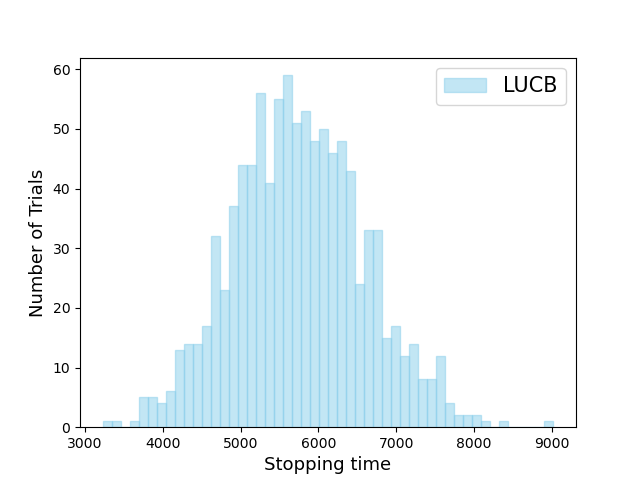
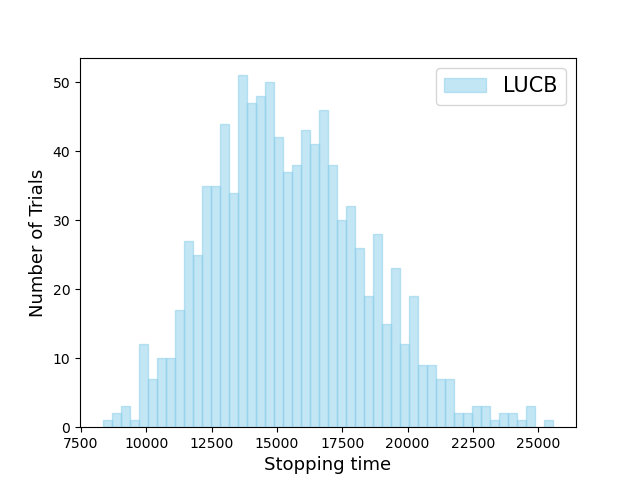
update

diff --git a/plot_data.py b/plot_data.py
@@ -25,7 +25,7 @@ def hill_estimator(data, k):
 # print(all_stopping_times)
 # print(len(all_stopping_times))
 
-color_list = ['skyblue','g','r']
+color_list = ['skyblue','g','r', 'y']
 
 # filename = "results/all_stopping_time_fcsh-1.1_9_v21.txt"
 # all_stopping_times = np.loadtxt(filename)
@@ -48,6 +48,48 @@ color_list = ['skyblue','g','r']
 # plt.show()
 
 
+filename = "results/all_stopping_times_fcsh-1.01_1000_v41.txt"
+all_stopping_times = np.loadtxt(filename)
+print(len(all_stopping_times))
+print(f"max = {np.max(all_stopping_times):0.4f}")
+print(f"min = {np.min(all_stopping_times):0.4f}")
+kurt = kurtosis(all_stopping_times, fisher=False)
+print(f"kurt = {kurt}")
+# hill = hill_estimator(all_stopping_times, 5)
+# print(f"hill = {hill}")
+
+plt.hist(
+    all_stopping_times, bins=50, color=color_list[0],
+    alpha=0.5, edgecolor=color_list[0], label="FCDSH-1.01", lw=3)
+
+filename = "results/all_stopping_times_fcsh-1.1_1000_v41.txt"
+all_stopping_times = np.loadtxt(filename)
+print(len(all_stopping_times))
+print(f"max = {np.max(all_stopping_times):0.4f}")
+print(f"min = {np.min(all_stopping_times):0.4f}")
+kurt = kurtosis(all_stopping_times, fisher=False)
+print(f"kurt = {kurt}")
+# hill = hill_estimator(all_stopping_times, 5)
+# print(f"hill = {hill}")
+
+plt.hist(
+    all_stopping_times, bins=50, color=color_list[1],
+    alpha=0.5, edgecolor=color_list[1], label="FCDSH-1.1", lw=3)
+
+filename = "results/all_stopping_times_fcsh-2_1000_v41.txt"
+all_stopping_times = np.loadtxt(filename)
+print(len(all_stopping_times))
+print(f"max = {np.max(all_stopping_times):0.4f}")
+print(f"min = {np.min(all_stopping_times):0.4f}")
+kurt = kurtosis(all_stopping_times, fisher=False)
+print(f"kurt = {kurt}")
+# hill = hill_estimator(all_stopping_times, 5)
+# print(f"hill = {hill}")
+
+plt.hist(
+    all_stopping_times, bins=50, color=color_list[2],
+    alpha=0.5, edgecolor=color_list[2], label="FCDSH-2", lw=3)
+
 filename = "results/all_stopping_times_lucb_1000_v41.txt"
 all_stopping_times = np.loadtxt(filename)
 print(len(all_stopping_times))
@@ -55,18 +97,18 @@ print(f"max = {np.max(all_stopping_times):0.4f}")
 print(f"min = {np.min(all_stopping_times):0.4f}")
 kurt = kurtosis(all_stopping_times, fisher=False)
 print(f"kurt = {kurt}")
-hill = hill_estimator(all_stopping_times, 5)
-print(f"hill = {hill}")
+# hill = hill_estimator(all_stopping_times, 5)
+# print(f"hill = {hill}")
 
 plt.hist(
-    all_stopping_times, bins=50, color=color_list[0],
-    alpha=0.5, edgecolor=color_list[0], label="LUCB", lw=3)
+    all_stopping_times, bins=50, color=color_list[3],
+    alpha=0.5, edgecolor=color_list[3], label="LUCB", lw=3)
 
 plt.xlabel('Stopping time', fontsize=13)
 plt.ylabel('Number of Trials', fontsize=13)
 
 plt.legend(fontsize=15)
-plt.savefig(f"fc_dsh.png", format='png')
+plt.savefig(f"fc_dsh_compare.png", format='png')
 
 plt.show()
 

diff --git a/test_lucb_v21.py b/test_lucb_v21.py
@@ -71,9 +71,8 @@ def algo_factory_fc(algo_name, K, seed, sigma_sq, beta, delta):
 #algo_names = ['ucb', 'sh', 'sh-reuse']
 #algo_names = ['tstci', 'fcsh-2', 'fcsh-1.5', 'fcsh-1.01']
 algo_names = ['tstci', 'fcsh-1.01', 'fcsh-1.01-d1.01', 'fcsh-1.01-d3', 'fcsh-1.01-d4', 'fcsh-1.01-d5']
-algo_names = ['fcsh-1.01', 'fcsh-1.1', 'fcsh-2']
-algo_names = ['fcsh-2']
-# algo_names = ['lucb']
+# algo_names = ['fcsh-1.01', 'fcsh-1.1', 'fcsh-2']
+algo_names = ['lucb']
 #algo_names = ['tstci', 'fcsh-2', 'fcsh-1.5', 'fcsh-1.01', 'fcsh-1.01-d3', 'fcsh-1.01-d4']
 opt.algo_names = algo_names
 
@@ -94,8 +93,8 @@ for (i_algo, algo_name) in enumerate(algo_names):
     for i_try in range(opt.n_try):
         env = Gaussian(opt.mu, opt.sigma_sq, seed=seed_ary[i_try])
         algo = algo_factory_fc(algo_name, K, opt.algoseed + i_try, opt.sigma_sq, opt.beta, opt.delta)
-        tau, is_stop = run_bandit_pe(algo, env, opt.delta, opt.max_iter, opt.sigma_sq)
-        # tau, is_stop = run_bandit_lucb(algo, env, opt.delta, opt.max_iter, opt.sigma_sq)
+        # tau, is_stop = run_bandit_pe(algo, env, opt.delta, opt.max_iter, opt.sigma_sq)
+        tau, is_stop = run_bandit_lucb(algo, env, opt.delta, opt.max_iter, opt.sigma_sq)
 
         # ext = res.extract()
         all_stopping_times.append(tau)

diff --git a/kjbandits.py b/kjbandits.py
@@ -165,7 +165,7 @@ class Lucb(BanditAlg):
     def dev(n_pulls, delta, sig_sq, t):
         # numer = np.log(np.log(2*n_pulls)) + 0.72*np.log(5.2/delta)
         # return np.sqrt(sig_sq)*1.7*np.sqrt(numer/n_pulls)
-        logterm = np.log(1.25*t**4/delta)
+        logterm = np.log(1.25*t**2/delta)
         return np.sqrt(logterm/n_pulls/2)
 
     def next_arm(self):
@@ -1089,8 +1089,8 @@ def run_bandit_lucb(algo, env, delta, max_iter, sigma_sq = 1.0):
         if (t < env.K):
             continue
 
-        hatmus = algo.get_empirical_means()
-        min_W_n = calc_min_W_n(hatmus, algo.n_pulls, delta, sigma_sq)
+        # hatmus = algo.get_empirical_means()
+        # min_W_n = calc_min_W_n(hatmus, algo.n_pulls, delta, sigma_sq)
         # logging.debug(f"min_W_n = {min_W_n}")
         # table.update('i_t', t, i_t)
         # table.update('min_W_n', t, min_W_n)
